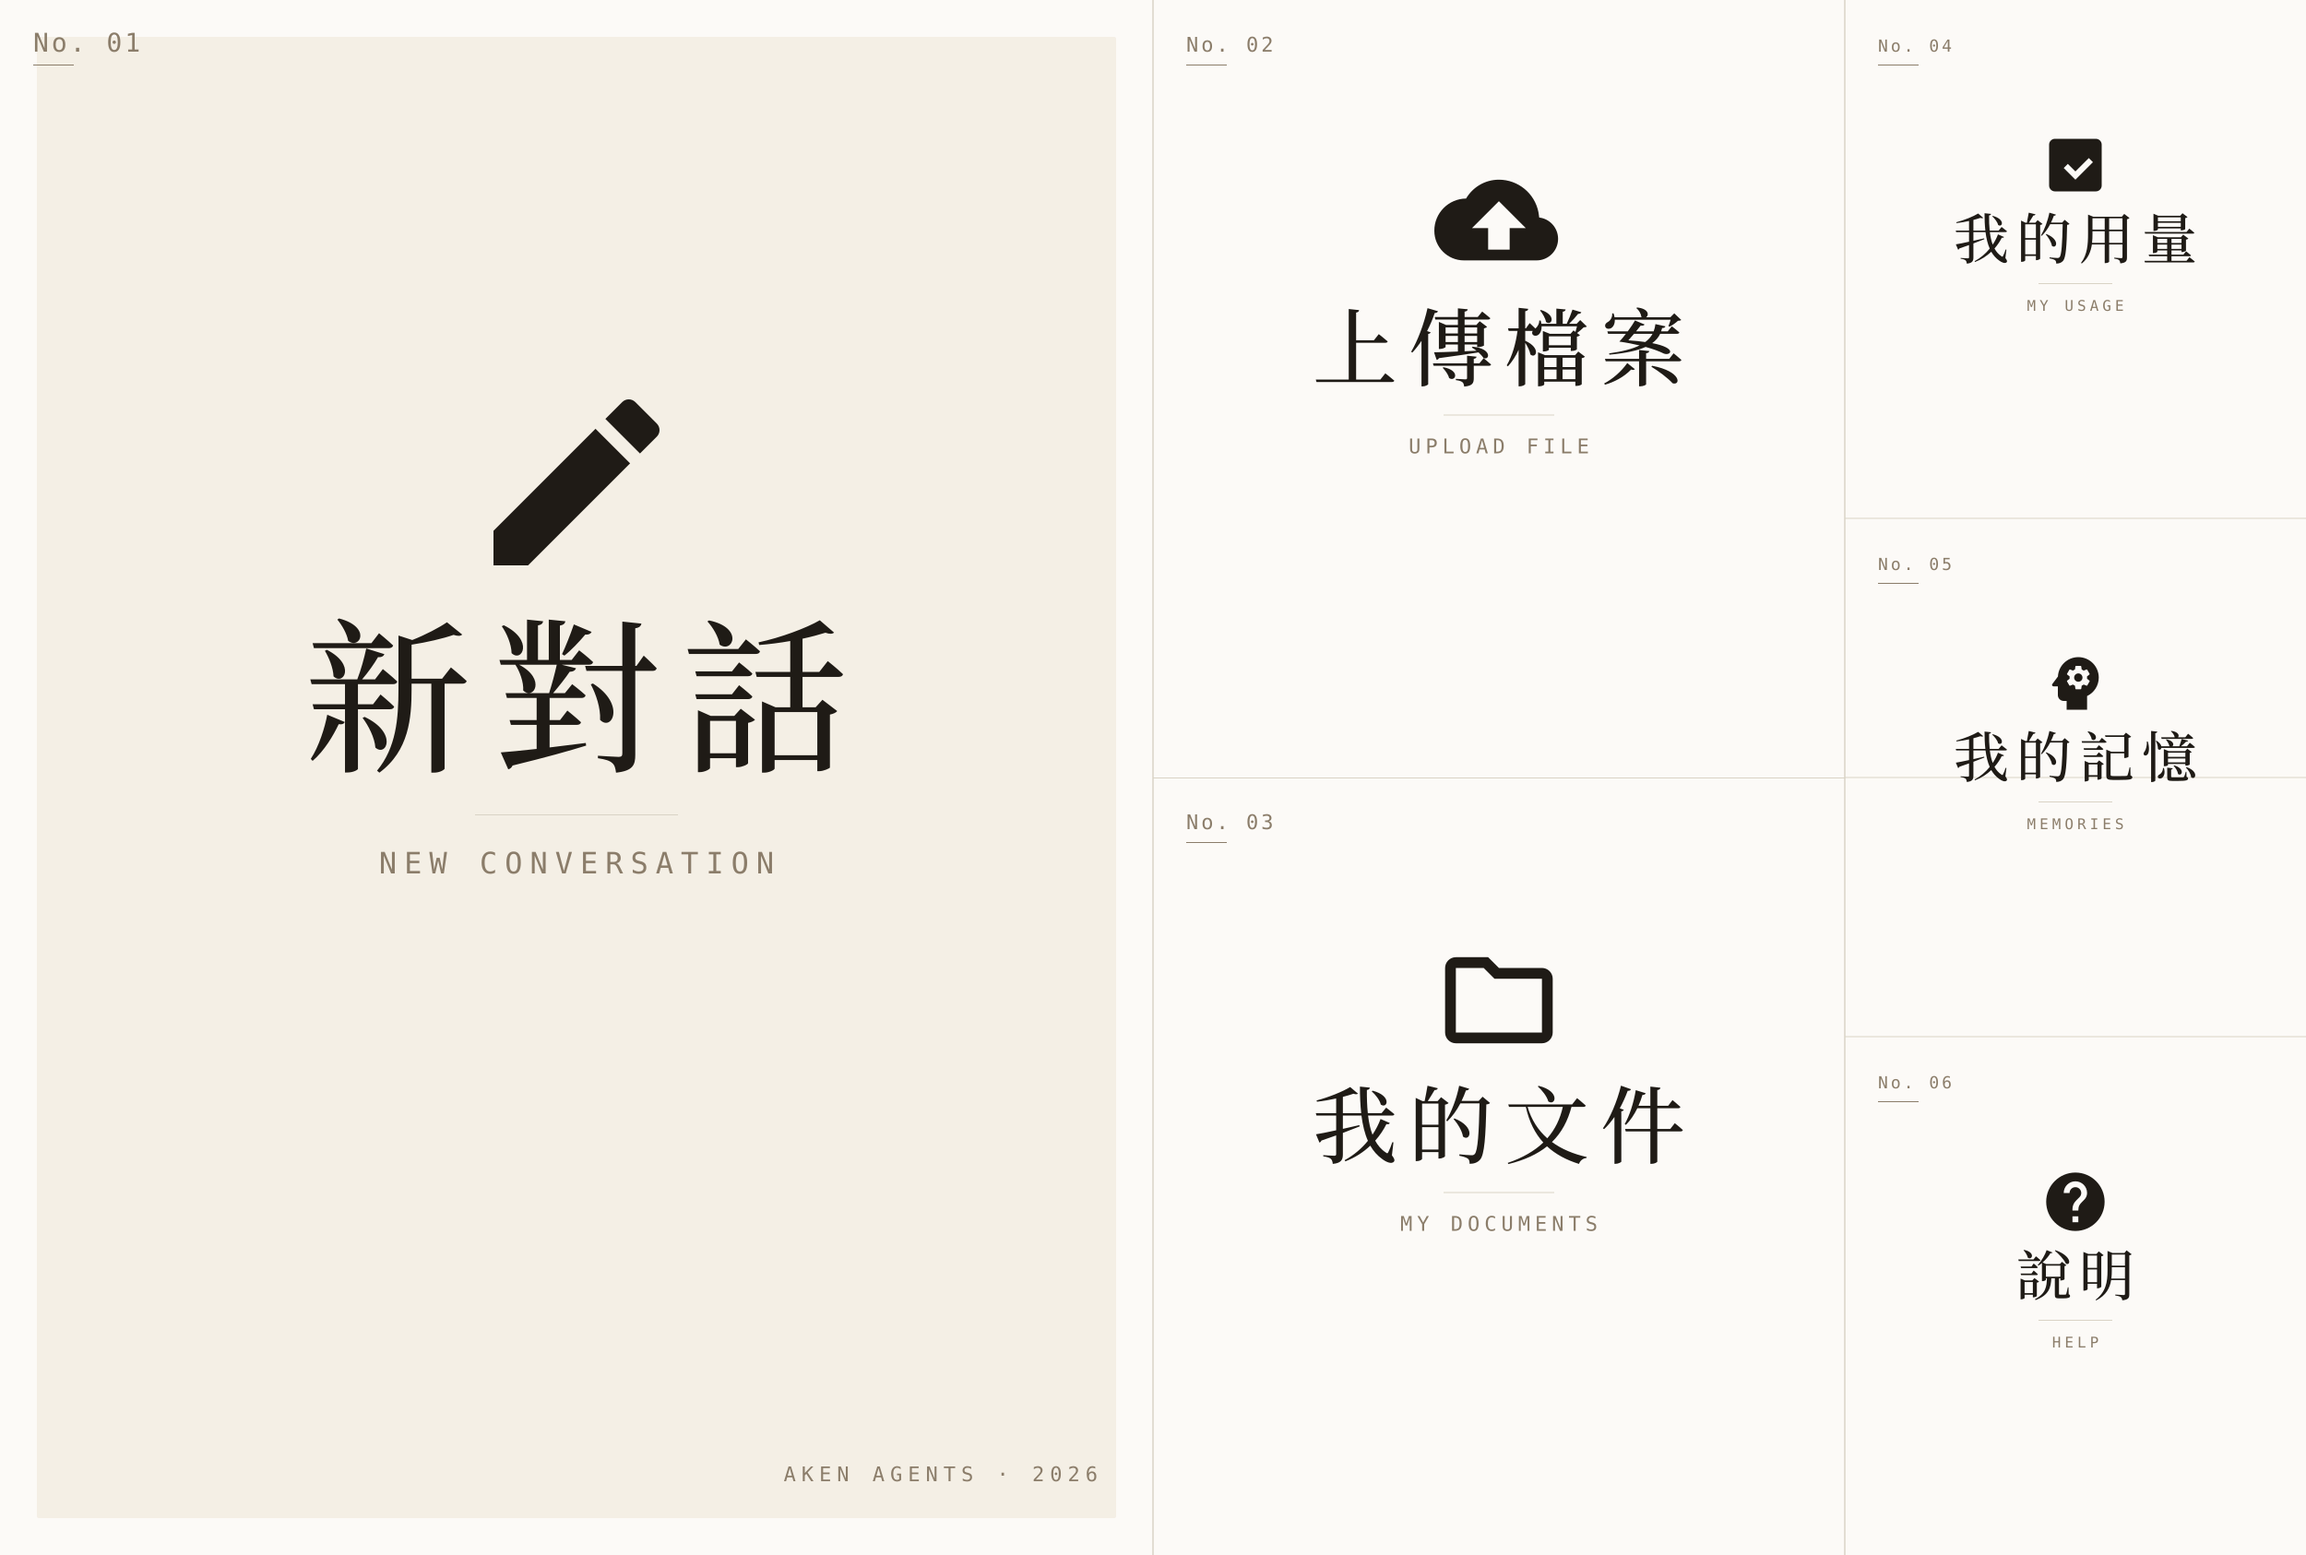
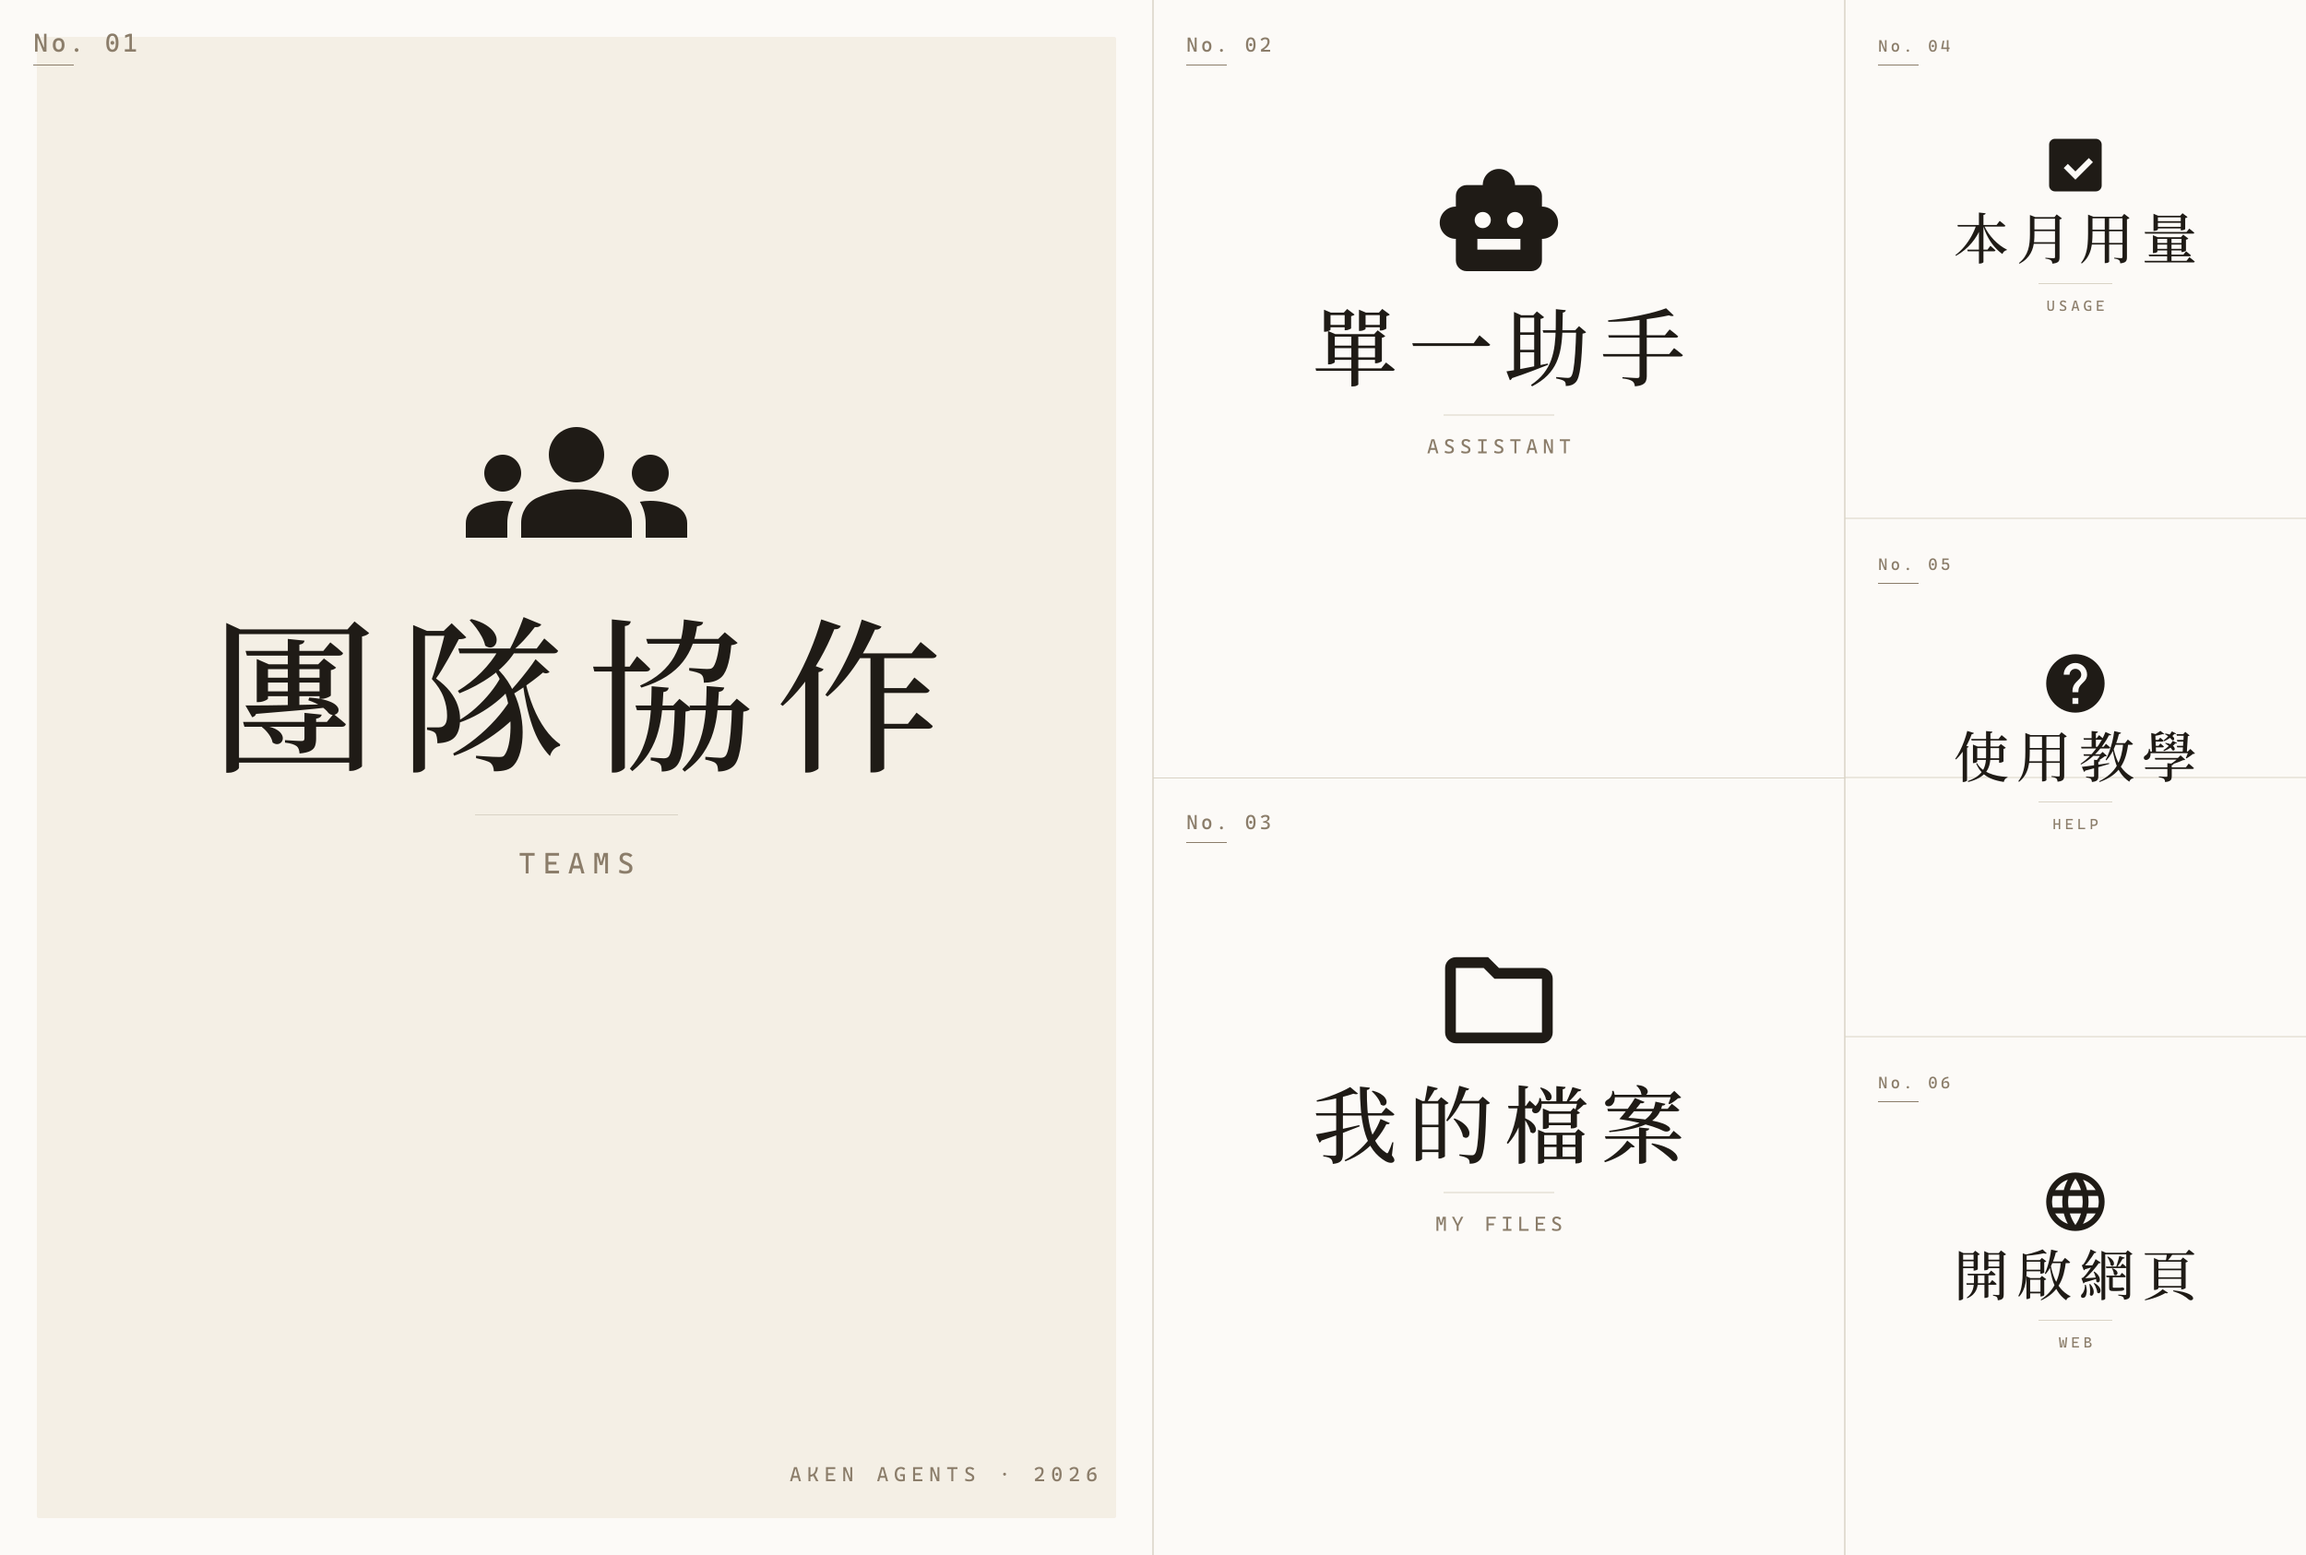
Update LINE rich menu tiles and assets
Rename and rework default rich menu tiles: change IDs (e.g. new_conv→teams, upload→solo, my_docs→my_files, memories→help, help→web), update icon SVGs, Chinese labels and English captions, and adjust actions (many URI actions replaced with postback actions carrying action data/displayText). Also change the web tile URI target to /dashboard and update the bundled rich menu PNG asset.

diff --git a/server/src/services/line/richMenu.ts b/server/src/services/line/richMenu.ts
@@ -86,64 +86,64 @@ function pageUrl(path: string): string {
 
 export const DEFAULT_TILES: RichMenuTile[] = [
   {
-    id: 'new_conv',
+    id: 'teams',
     iconSvg:
-      '<path d="M3 17.25V21h3.75L17.81 9.94l-3.75-3.75L3 17.25zM20.71 7.04a1 1 0 0 0 0-1.41l-2.34-2.34a1 1 0 0 0-1.41 0l-1.83 1.83 3.75 3.75 1.83-1.83z"/>',
-    label: '新對話',
-    caption: 'NEW CONVERSATION',
+      '<path d="M12 12.75c1.63 0 3.07.39 4.24.9 1.08.48 1.76 1.56 1.76 2.73V18H6v-1.61c0-1.18.68-2.26 1.76-2.73 1.17-.52 2.61-.91 4.24-.91zM4 13c1.1 0 2-.9 2-2s-.9-2-2-2-2 .9-2 2 .9 2 2 2zm1.13 1.1c-.37-.06-.74-.1-1.13-.1-.99 0-1.93.21-2.78.58A2.01 2.01 0 0 0 0 16.43V18h4.5v-1.61c0-.83.23-1.61.63-2.29zM20 13c1.1 0 2-.9 2-2s-.9-2-2-2-2 .9-2 2 .9 2 2 2zm2.78 1.58A6.95 6.95 0 0 0 20 14c-.39 0-.76.04-1.13.1.4.68.63 1.46.63 2.29V18H24v-1.57c0-.81-.48-1.53-1.22-1.85zM12 6c1.66 0 3 1.34 3 3s-1.34 3-3 3-3-1.34-3-3 1.34-3 3-3z"/>',
+    label: '團隊協作',
+    caption: 'TEAMS',
     variant: 'hero',
     bounds: { x: 0, y: 0, width: 1250, height: 1686 },
-    action: { type: 'uri', uri: pageUrl('/dashboard') },
+    action: { type: 'postback', data: 'action=teams', displayText: '團隊協作' },
   },
   {
-    id: 'upload',
+    id: 'solo',
     iconSvg:
-      '<path d="M19.35 10.04A7.49 7.49 0 0 0 12 4c-2.62 0-4.88 1.42-6.1 3.5A5.97 5.97 0 0 0 0 13.5C0 16.54 2.46 19 5.5 19H19c2.21 0 4-1.79 4-4 0-2.05-1.55-3.75-3.5-3.96zM14 13v4h-4v-4H7l5-5 5 5h-3z"/>',
-    label: '上傳檔案',
-    caption: 'UPLOAD FILE',
+      '<path d="M20 9V7c0-1.1-.9-2-2-2h-3c0-1.66-1.34-3-3-3S9 3.34 9 5H6c-1.1 0-2 .9-2 2v2c-1.66 0-3 1.34-3 3s1.34 3 3 3v4c0 1.1.9 2 2 2h12c1.1 0 2-.9 2-2v-4c1.66 0 3-1.34 3-3s-1.34-3-3-3zM7.5 11.5C7.5 10.67 8.17 10 9 10s1.5.67 1.5 1.5S9.83 13 9 13s-1.5-.67-1.5-1.5zM16 17H8v-2h8v2zm-1-4c-.83 0-1.5-.67-1.5-1.5S14.17 10 15 10s1.5.67 1.5 1.5S15.83 13 15 13z"/>',
+    label: '單一助手',
+    caption: 'ASSISTANT',
     variant: 'medium',
     bounds: { x: 1250, y: 0, width: 750, height: 843 },
-    action: { type: 'uri', uri: pageUrl('/import') },
+    action: { type: 'postback', data: 'action=solo', displayText: '單一助手' },
   },
   {
-    id: 'my_docs',
+    id: 'my_files',
     iconSvg:
       '<path d="M20 6h-8l-2-2H4c-1.1 0-2 .9-2 2v12c0 1.1.9 2 2 2h16c1.1 0 2-.9 2-2V8c0-1.1-.9-2-2-2zm0 12H4V6h5.17l2 2H20v10z"/>',
-    label: '我的文件',
-    caption: 'MY DOCUMENTS',
+    label: '我的檔案',
+    caption: 'MY FILES',
     variant: 'medium',
     bounds: { x: 1250, y: 843, width: 750, height: 843 },
-    action: { type: 'postback', data: 'action=list_files', displayText: '我的文件' },
+    action: { type: 'postback', data: 'action=list_files', displayText: '我的檔案' },
   },
   {
     id: 'usage',
     iconSvg:
       '<path d="M19 3H5c-1.1 0-2 .9-2 2v14c0 1.1.9 2 2 2h14c1.11 0 2-.9 2-2V5c0-1.1-.89-2-2-2zm-7 14l-4-4 1.41-1.41L12 14.17l4.59-4.58L18 11l-6 6z"/>',
-    label: '我的用量',
-    caption: 'MY USAGE',
+    label: '本月用量',
+    caption: 'USAGE',
     variant: 'small',
     bounds: { x: 2000, y: 0, width: 500, height: 562 },
     action: { type: 'postback', data: 'action=quota', displayText: '本月用量' },
   },
   {
-    id: 'memories',
-    iconSvg:
-      '<path d="M13 8.57c-.79 0-1.43.64-1.43 1.43s.64 1.43 1.43 1.43 1.43-.64 1.43-1.43-.64-1.43-1.43-1.43z"/><path d="M13 3C9.25 3 6.2 5.94 6.02 9.64L4.1 12.2c-.25.33-.01.8.4.8H6v3c0 1.1.9 2 2 2h1v3h7v-4.68c2.36-1.12 4-3.53 4-6.32 0-3.87-3.13-7-7-7zm3 7c0 .13-.01.26-.02.39l.83.66c.08.06.1.16.05.25l-.8 1.39c-.05.09-.16.12-.24.09l-.99-.4c-.21.16-.43.29-.67.39L14 13.83c-.01.1-.1.17-.2.17h-1.6c-.1 0-.18-.07-.2-.17l-.15-1.06c-.25-.1-.47-.23-.68-.39l-.99.4c-.09.03-.2 0-.25-.09l-.8-1.39c-.05-.08-.03-.19.05-.25l.84-.66c-.01-.13-.02-.26-.02-.39 0-.13.01-.26.03-.39l-.84-.66c-.08-.06-.1-.16-.05-.25l.8-1.39c.05-.09.16-.12.24-.09l.99.4c.21-.16.43-.29.68-.39l.15-1.06c.02-.1.1-.17.2-.17h1.6c.1 0 .18.07.2.17l.15 1.06c.24.1.47.23.67.39l.99-.4c.09-.03.2 0 .24.09l.8 1.39c.05.09.03.19-.05.25l-.83.66c.01.13.02.26.02.39z"/>',
-    label: '我的記憶',
-    caption: 'MEMORIES',
-    variant: 'small',
-    bounds: { x: 2000, y: 562, width: 500, height: 562 },
-    action: { type: 'uri', uri: pageUrl('/memories') },
-  },
-  {
     id: 'help',
     iconSvg:
       '<path d="M12 2C6.48 2 2 6.48 2 12s4.48 10 10 10 10-4.48 10-10S17.52 2 12 2zm1 17h-2v-2h2v2zm2.07-7.75l-.9.92C13.45 12.9 13 13.5 13 15h-2v-.5c0-1.1.45-2.1 1.17-2.83l1.24-1.26c.37-.36.59-.86.59-1.41 0-1.1-.9-2-2-2s-2 .9-2 2H8c0-2.21 1.79-4 4-4s4 1.79 4 4c0 .88-.36 1.68-.93 2.25z"/>',
-    label: '說明',
+    label: '使用教學',
     caption: 'HELP',
     variant: 'small',
+    bounds: { x: 2000, y: 562, width: 500, height: 562 },
+    action: { type: 'postback', data: 'action=help', displayText: '使用教學' },
+  },
+  {
+    id: 'web',
+    iconSvg:
+      '<path d="M11.99 2C6.47 2 2 6.48 2 12s4.47 10 9.99 10C17.52 22 22 17.52 22 12S17.52 2 11.99 2zm6.93 6h-2.95a15.65 15.65 0 0 0-1.38-3.56A8.03 8.03 0 0 1 18.92 8zM12 4.04c.83 1.2 1.48 2.53 1.91 3.96h-3.82c.43-1.43 1.08-2.76 1.91-3.96zM4.26 14C4.1 13.36 4 12.69 4 12s.1-1.36.26-2h3.38c-.08.66-.14 1.32-.14 2 0 .68.06 1.34.14 2H4.26zm.82 2h2.95c.32 1.25.78 2.45 1.38 3.56A7.987 7.987 0 0 1 5.08 16zm2.95-8H5.08a7.987 7.987 0 0 1 4.33-3.56A15.65 15.65 0 0 0 8.03 8zM12 19.96c-.83-1.2-1.48-2.53-1.91-3.96h3.82c-.43 1.43-1.08 2.76-1.91 3.96zM14.34 14H9.66c-.09-.66-.16-1.32-.16-2 0-.68.07-1.35.16-2h4.68c.09.65.16 1.32.16 2 0 .68-.07 1.34-.16 2zm.25 5.56c.6-1.11 1.06-2.31 1.38-3.56h2.95a8.03 8.03 0 0 1-4.33 3.56zM16.36 14c.08-.66.14-1.32.14-2 0-.68-.06-1.34-.14-2h3.38c.16.64.26 1.31.26 2s-.1 1.36-.26 2h-3.38z"/>',
+    label: '開啟網頁',
+    caption: 'WEB',
+    variant: 'small',
     bounds: { x: 2000, y: 1124, width: 500, height: 562 },
-    action: { type: 'uri', uri: pageUrl('/guide') },
+    action: { type: 'uri', uri: pageUrl('/dashboard') },
   },
 ];
 
